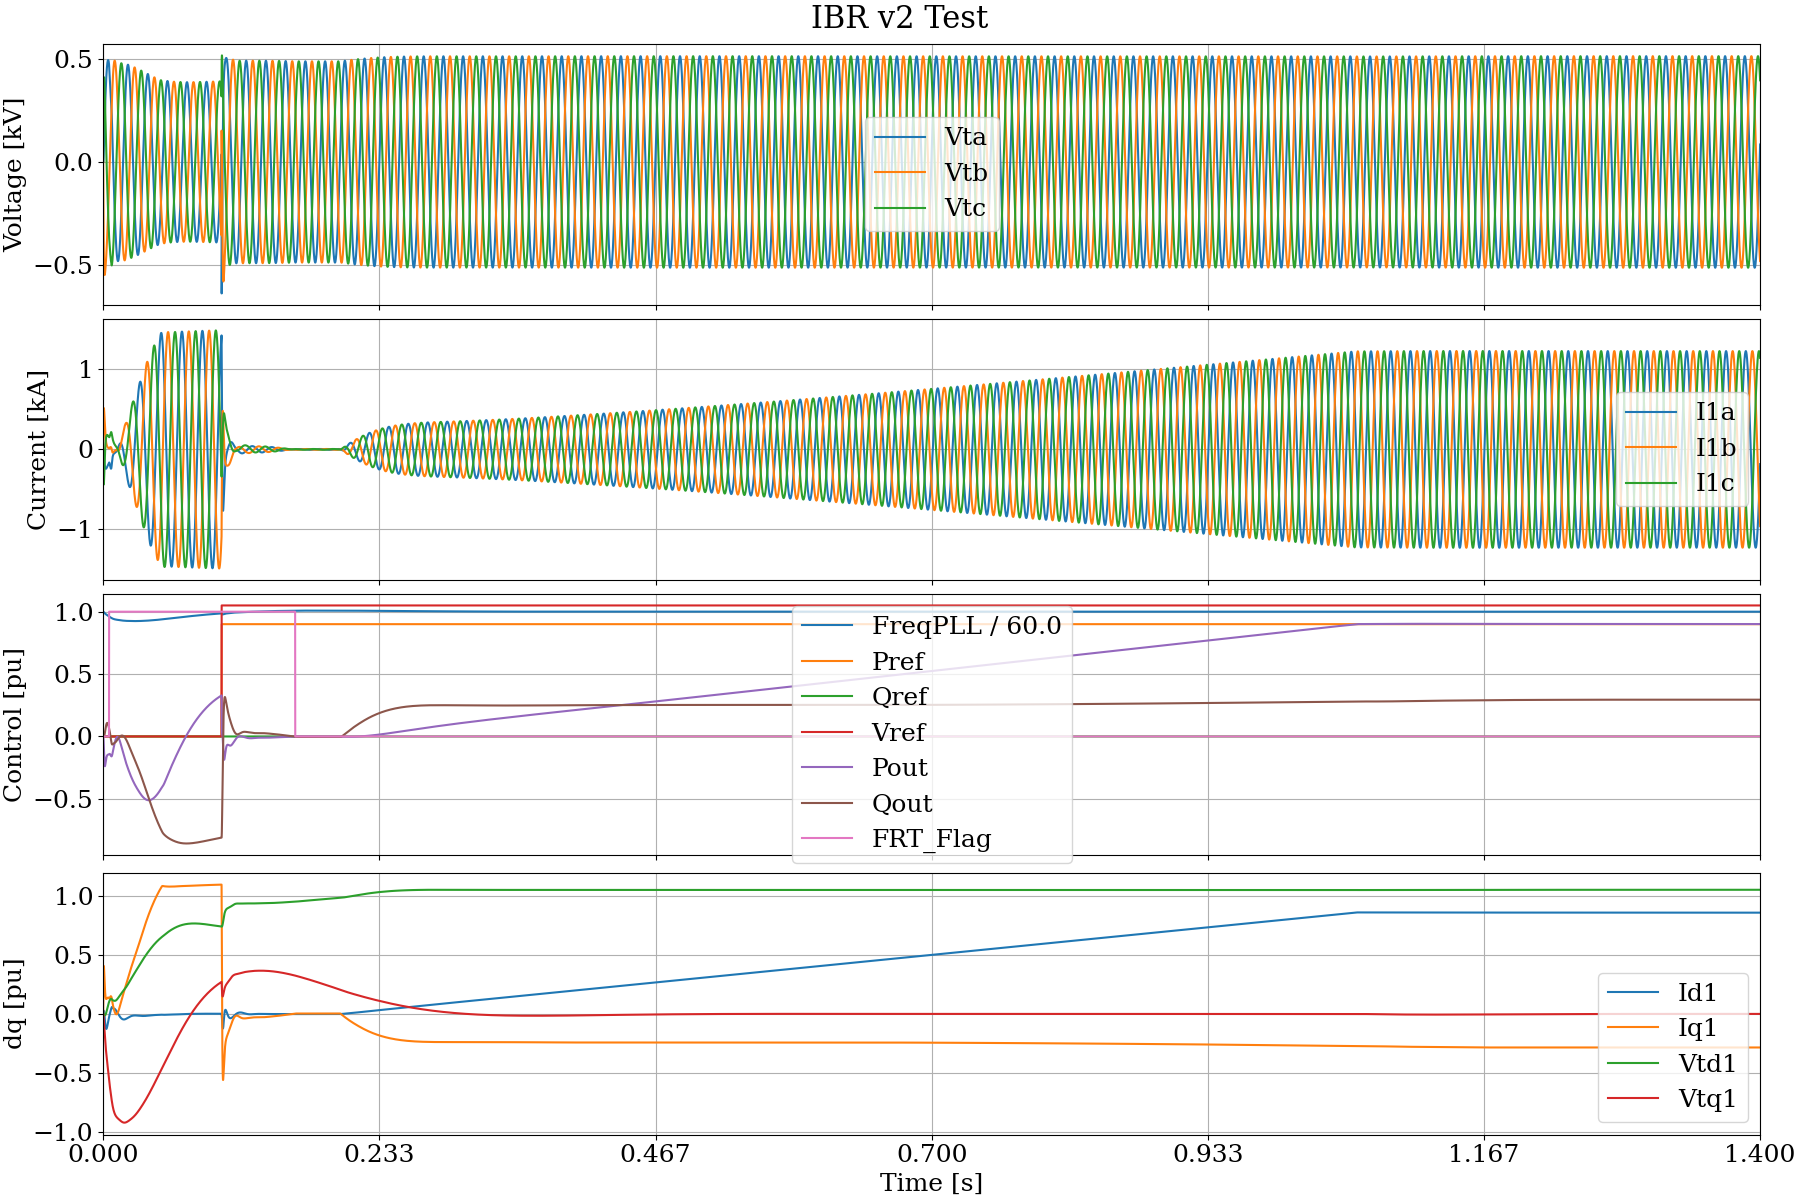
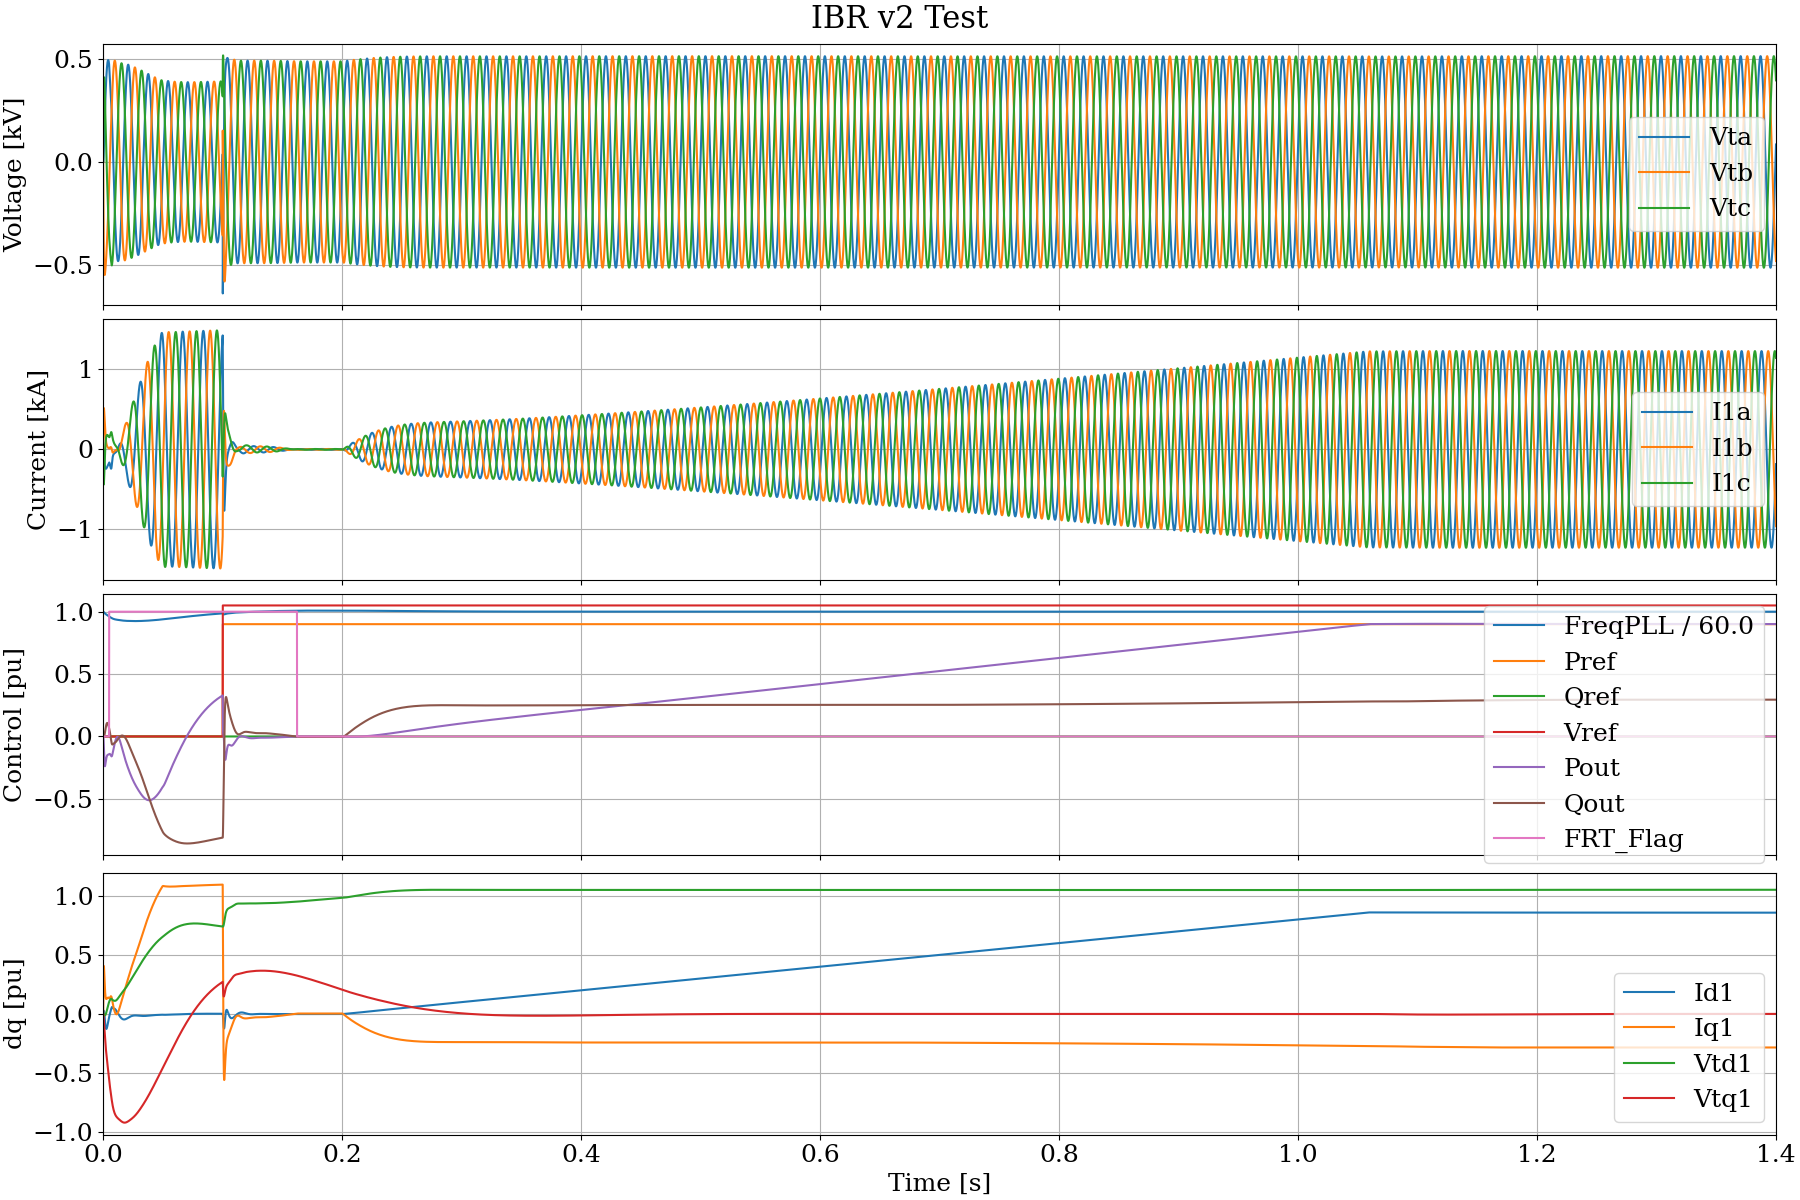
completed a description of the DLL examples with results

diff --git a/dll/bin/plotdlltest.py b/dll/bin/plotdlltest.py
@@ -118,7 +118,8 @@ def plot_page (df, cfg):
   amax = np.where(t==tmax)
   imin = int(amin[0][0])
   imax = int(amax[0][0])
-  nticks = int((tmax-tmin)/cfg['ttick']) + 1
+  nticks = int(1.00001*(tmax-tmin)/cfg['ttick']) + 1
+  #print (tmax, tmin, cfg['ttick'], nticks)
   tticks = np.linspace (tmin, tmax, num=nticks, endpoint=True)
   nrows = len(cfg['ytitles'])
   ncols = 1

diff --git a/docs/DLLExamples.rst b/docs/DLLExamples.rst
@@ -7,9 +7,6 @@
 DLL Examples
 ============
 
-.. warning::
-    This section is not complete yet.
-
 These projects build a supporting wrapper around the IEEE/Cigre specification
 for dynamic link libraries (DLLs), and three examples. They should be built
 in the following order.
@@ -85,6 +82,63 @@ File Directory
 Results
 ^^^^^^^
 
+The following result shows a drop in terminal voltage at 2.0 s to 0.5 pu. The *EFD*
+output responds as limited by the overexcitation limiter value, *VOEL*.
+
+.. image:: assets/test_scrx9.png
+
+.. _target-examples-grid:
+
+Grid Impedance
+--------------
+
+This tests a single-machine, infinite-bus (SMIB) grid that an inverter model may be connected to.
+The grid consists of a three-phase voltage source with three-phase source impedance.
+Trapezoidal integration is used to solve for currents in the source impedance, given 
+the voltages on each terminal of the impedance. One terminal voltage is defined by the
+SMIB voltage source. The other terminal voltage is defined by the connected DLL's output.
+
+In this example, the DLL's output voltage is mimiced in code. The purpose of this test
+is to verify proper execution of the trapezoidal integration at each time step. The output should
+show inductive currents all beginning at zero, then gradually assume the expected
+sinusoidal shapes, 120 degrees apart, with no DC offset in the current. The DLL
+controller action is not included. To do that, code from this example is incorporated into 
+the *../gfm_gfl_ibr/test_ibr.c* and *../gfm_gfl_ibr2/test_ibr2.c* source files.
+
+Build Instructions - Windows
+^^^^^^^^^^^^^^^^^^^^^^^^^^^^
+
+1. Open the *x64 Native Tools Command Prompt for VS 2022* from Windows Start Menu
+2. From the *grid* project directory (``rd /s build`` if it exists):
+
+    a. ``md build``
+    b. ``cmake -B build -A x64``
+    c. ``cmake --build build --config Release`` or ``cmake --build build --config Debug``
+    d. ``cmake --install build``
+
+3. From the *../bin* directory, check the trapezoidal integration output:
+
+    a. ``test_grid`` should produce an output *grid.csv* file
+    b. Verify with ``python plotdlltest.py grid.csv``
+
+File Directory
+^^^^^^^^^^^^^^
+
+- *CMakeLists.txt* generates the detailed build instructions
+- *test_grid.c* implements trapezoidal integration for current in a three-phase source impedance
+
+Results
+^^^^^^^
+
+The following result shows the voltages at each terminal and the currents through
+each phase of a 0.01 + j 0.20 per-unit grid impedance. The source voltage is 600 volts
+line-to-line and the base power is 1 MW. The phase angle between terminal voltages is 11.54
+degrees, to create approximately 1 per-unit or 1 MW power flow. The inductive currents
+begin at zero, so there is a transient response as the DC offset decays and the power
+flow approaches 1 MW.
+
+.. image:: assets/test_grid.png
+
 .. _target-examples-gfm1:
 
 GFM GFL v1
@@ -124,6 +178,16 @@ File Directory
 
 Results
 ^^^^^^^
+
+The base voltage is 0.65 kV and the base power is 1 MW. The SMIB impedance 
+is 0.01 + j 0.2 pu. The AC output filter of the inverter is not 
+implemented. At 0.1 s, the control requests 1.05 pu voltage and 0.9 pu 
+power output. *Qref* is not changed but the reactive power output must be 
+controlled to achieve the desired output value. The DLL controls the phase 
+currents are controlled to nearly achieve these requests by 0.5 s, as seen 
+in plotted values of *Pout*, *Qout*, and *Vd*. 
+
+.. image:: assets/test_ibr.png
 
 .. _target-examples-gfm2:
 
@@ -167,6 +231,19 @@ File Directory
 Results
 ^^^^^^^
 
+The base voltage is 600 V and the base power is 1 MW. The SMIB impedance 
+is 0.01 + j 0.2 pu. The AC output filter of the inverter is not 
+implemented. The nominal DC voltages is 1200 V, half that value is 
+multiplied by the DLL output modulation indices to create average source 
+voltages. At 0.1 s, the control requests 1.05 pu voltage and 0.9 pu power 
+output. However, the internal DLL control is not released until 0.2 s. 
+*Qref* is not changed but the reactive power output must be controlled to 
+achieve the desired output value. The DLL controls the phase currents are 
+controlled to achieve these requests by 1.4 s, as seen in plotted values 
+of *Pout*, *Qout*, and *Vtd1*. 
+
+.. image:: assets/test_ibr2.png
+
 .. _target-examples-hwpv:
 
 HWPV
@@ -204,7 +281,7 @@ Follow these instructions to make 64-bit and 32-bit versions of the DLL:
        directory. Some of these must be run at reduced power output, until new versions are trained 
        with sensitivity optimization, as described in `pecblocks documentation <https://pecblocks.readthedocs.io/en/latest/>`_
 
-4. From this _hwpv_ project directory (`rd /s build` and `rd /s build32` if they exist):
+4. From this _hwpv_ project directory (``rd /s build`` and ``rd /s build32`` if they exist):
 
     a. ``md build``
     b. ``md build32``
@@ -230,6 +307,15 @@ File Directory
 Results
 ^^^^^^^
 
+This result shows example response of the generalized block diagram model to ramp and step changes
+in the inputs (solar irradiance, *G*, AC terminal voltage, *Vd* and *Vq*, a polynomial input feature,
+*GVrms*, and an inverter mode transition flag, *Ctl*). The outputs *Id* and *Iq* drive a controlled
+Norton equivalent current source on the AC side. The outputs *Idc* and *Vdc* are estimated quantities
+for an external controller, i.e., they are not coupled to an electrical model on the DC side of the
+converter in this example.
+
+.. image:: assets/test_hwpv.png
+
 .. _target-examples-repca1:
 
 WECC REPCA1
@@ -243,7 +329,7 @@ Limitations:
 - Parameters are fixed at initialization
 - Snapshots and states are unsupported
 
-Prequisites:
+Prerequisites:
 
 - Compiler and Cmake as described above
 - OpenModelica (Tested with version 1.26.3)
@@ -306,6 +392,25 @@ File Directory
 
 Results
 ^^^^^^^
+
+The following result shows response of the plant controller to a step increase in terminal voltage.
+There is no change in the plant active power reference, but the plant reactive power should decrease
+(absorbing) to reduce the terminal voltage.
+
+.. image:: assets/test_ppc_vstep.png
+
+The following result shows response of the plant controller to a step reduction in the external
+reactive power reference. There is no effect on the plant active power reference. There is no
+response in measured reactive power because there is no power system connected to the controller.
+
+.. image:: assets/test_ppc_qstep.png
+
+The following result shows response of the plant controller to a step increase in the measured
+frequency. There is no effect on the plant **requested** active power reference. However, the
+controlled *Pref* should decrease in response to the frequency. There is no corresponding
+response in system frequency becasue there is no power system connected to the controller.
+
+.. image:: assets/test_ppc_fstep.png
 
 Licenses
 ^^^^^^^^